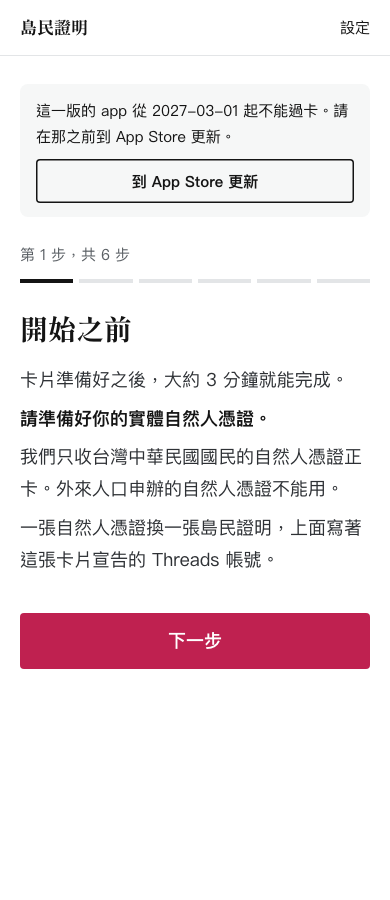
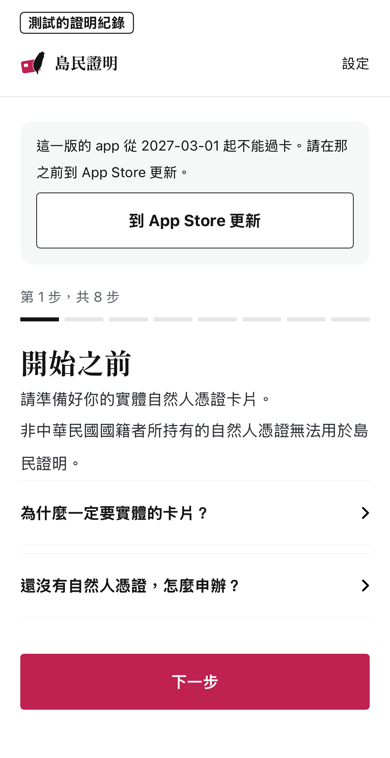
#172 iOS 的中斷和錯誤
三次感應各自的中斷照 #133：卡片離開、沒有感應到、換了卡時 PIN 留在記憶體，
「再感應一次」只重做那一次；送 PIN 時離開而卡片還沒接受過這個 PIN，不自動
重送，丟掉 PIN 回到輸入的畫面；在面板上按取消回到按下之前的畫面。PIN 從欄位
拿走後滿 5 分鐘丟掉，回到第 1 步並說明。最低版本（min_app，核心的
idc_min_app）：起算日之前在第 1 步最上面提醒，當天起換掉第 1 步；讀不懂就
不讀卡。手機不能讀卡時換掉第 1 步。句子都是 card-proof.json 現有的。

Changed region(s): [[0.0308, 0.0, 0.9538, 0.6372], [0.0308, 0.6675, 0.9538, 0.7889], [0.0308, 0.8496, 0.9538, 0.9406]]

diff --git a/ios/Tests/ScreensTests.swift b/ios/Tests/ScreensTests.swift
@@ -424,6 +424,80 @@ final class ScreensTests: XCTestCase {
         XCTAssertEqual(opened, ["https://test.iamreal.tw/faq", "https://test.iamreal.tw/privacy", "https://github.com/iamreal-tw/iamreal"])
     }
 
+    /// A build that has its page in the store.
+    private var inStore: Screens { Screens(copy: copy, appCopy: appCopy, host: "iamreal.tw", storePage: true) }
+
+    /// The lowest version (card-proof.md, step 1, "app"; ADR-0035): before the day, said above step 1 and above
+    /// the reminder's note, with the way to the store; from the day, in the place of step 1, with nothing that
+    /// leads to a card. A build with no page in the store yet says the same without the button.
+    func testTheLowestVersionBeforeTheDayAndFromIt() {
+        let soon = inStore.before(notice: ReminderScreens(appCopy: appCopy).fromNotification(snoozed: nil), updateFrom: "2027-03-01", idle: true)
+        XCTAssertEqual(soon.step, 1)
+        XCTAssertEqual(soon.warnings, [
+            Notice(text: "這一版的 app 從 2027-03-01 起不能過卡。請在那之前到 App Store 更新。", button: Button(label: "到 App Store 更新", action: .openStore)),
+            Notice(text: "超過 5 分鐘沒有完成，為了不讓 PIN 留在手機上太久，已經回到開頭。請再感應一次卡片。", button: nil),
+        ])
+        XCTAssertEqual(Array(soon.texts.prefix(4)), [
+            "這一版的 app 從 2027-03-01 起不能過卡。請在那之前到 App Store 更新。", "到 App Store 更新",
+            "超過 5 分鐘沒有完成，為了不讓 PIN 留在手機上太久，已經回到開頭。請再感應一次卡片。",
+            "這是過卡的提醒。現在不方便的話，可以晚點再做。",
+        ])
+        XCTAssertEqual(soon.buttons.map(\.action), [.start], "a card proof goes on as usual")
+        let stop = inStore.tooOld(from: "2027-03-01")
+        XCTAssertEqual(stop.step, 0, "none of the steps")
+        XCTAssertEqual(stop.texts, [
+            "這一版不能過卡了",
+            "從 2027-03-01 起，這一版的島民證明 app 不能過卡。請更新到最新的版本。",
+            "卡片還沒有被讀取，沒有任何東西送出去。",
+            "到 App Store 更新",
+            "也可以用電腦和讀卡機，在 iamreal.tw 過卡。",
+        ])
+        XCTAssertEqual(stop.buttons, [])
+        XCTAssertNil(stop.cancel)
+        // No page in the store yet: the same sentences, no button.
+        XCTAssertNil(screens.before(updateFrom: "2027-03-01").warnings.first?.button)
+        XCTAssertFalse(screens.tooOld(from: "2027-03-01").texts.contains("到 App Store 更新"))
+        for screen in [inStore.before(updateFrom: "2027-03-01", idle: true), stop, screens.tooOld(from: "2027-03-01")] { document.check(screen) }
+    }
+
+    /// A phone that cannot read a card: in the place of step 1, the other way to a card proof.
+    func testAPhoneWithoutNFC() {
+        let screen = screens.noNFC()
+        XCTAssertEqual(screen.step, 0)
+        XCTAssertEqual(screen.texts, ["這支手機不能感應卡片", "這支手機沒有 NFC，不能用 app 過卡。", "可以用電腦和讀卡機，在 iamreal.tw 過卡。"])
+        XCTAssertEqual(screen.buttons, [])
+        document.check(screen)
+    }
+
+    /// What a tap that ended says, by which of the three it was (card-proof.md, steps 2, 3 and 5, "app"; #133).
+    func testWhatATapThatEndedSaysByWhichTapItWas() {
+        let left = Flow.Stop.card(.dropped(.notSent))
+        XCTAssertEqual(screens.message(left, tap: 1), ["卡片在讀取途中離開了手機。請再感應一次，感應時不要移動卡片。"])
+        XCTAssertEqual(screens.message(left, tap: 2), ["卡片在感應途中離開了手機。PIN 還在，不用再輸入，請再感應一次。"])
+        XCTAssertEqual(screens.message(.card(.dropped(.accepted)), tap: 2), ["卡片在感應途中離開了手機。PIN 還在，不用再輸入，請再感應一次。"])
+        XCTAssertEqual(screens.message(.card(.dropped(.sent)), tap: 2), [copy("app_stops.pin_maybe_received")])
+        for pin in [PINFate.notSent, .sent, .accepted] {
+            XCTAssertEqual(screens.message(.card(.dropped(pin)), tap: 3), ["卡片在感應途中離開了手機。請再感應一次。"])
+        }
+        // The panel closed by the cardholder: said only where the card would have signed the declaration.
+        XCTAssertEqual(screens.message(.card(.cancelled), tap: 1), [])
+        XCTAssertEqual(screens.message(.card(.cancelled), tap: 2), [])
+        XCTAssertEqual(screens.message(.card(.cancelled), tap: 3), ["感應取消了，卡片沒有簽。"])
+        // Step 3 with the PIN kept: the same tap again. Step 5: the same tap again, or out.
+        let kept = screens.pin(name: "王小明", state: .tapAgain(screens.message(left, tap: 2)[0]))
+        XCTAssertEqual(kept.buttons, [Button(label: "再感應一次", action: .confirmCard)])
+        let maybe = screens.pin(name: "王小明", state: .waiting(screens.message(.card(.dropped(.sent)), tap: 2).first))
+        XCTAssertEqual(maybe.buttons.map(\.label), ["上一步", "確認卡片"])
+        for stop in [left, .card(.cancelled), .card(.noTap), .card(.otherCard)] {
+            let progress = screens.progress(reached: 1, stop: stop)
+            XCTAssertEqual(progress.buttons, [Button(label: "再感應一次", action: .signAgain)], "\(stop)")
+            XCTAssertEqual(progress.cancel?.label, "取消")
+            document.check(progress)
+        }
+        document.check(kept)
+        document.check(maybe)
+    }
+
     /// Step 1 opened from the notification: the note on top, as app.md writes it.
     func testStepOneFromTheNotification() {
         let reminderScreens = ReminderScreens(appCopy: appCopy)
@@ -523,6 +597,10 @@ final class ScreensTests: XCTestCase {
         // screen, the settings with the reminder on. Step 7 is among the steps above.
         let reminderScreens: [(String, Screen)] = [
             ("app-reminder-4-from-notification-phone", screens.before(notice: ReminderScreens(appCopy: appCopy).fromNotification(snoozed: nil))),
+            // The lowest version and a phone without NFC, as a build that has its page in the store shows them.
+            ("app-update-soon-phone", inStore.before(updateFrom: "2027-03-01")),
+            ("app-update-required-phone", inStore.tooOld(from: "2027-03-01")),
+            ("app-no-nfc-phone", inStore.noNFC()),
         ]
         for (name, screen) in reminderScreens {
             let drawn = await Self.draw(ScreenView(screen: screen, copy: copy, pinText: .constant(""), perform: { _ in }, type: { _, _ in }, unscrolled: true), height: nil)

diff --git a/ios/Tests/DeviceCoreTests.swift b/ios/Tests/DeviceCoreTests.swift
@@ -28,4 +28,36 @@ final class DeviceCoreTests: XCTestCase {
         }
         XCTAssertEqual(seen, 2)
     }
+
+    /// The lowest app version, as the app reads it through the core
+    /// (MinApp.read, idc_min_app), against the cases of
+    /// spec/vectors/min-app.json for the iOS app: new enough, older before
+    /// the day and from it, and every field that cannot be read.
+    func testTheLowestVersionIsWhatTheVectorsSayForTheIOSApp() throws {
+        let cases = try XCTUnwrap(try Repository.vectors("min-app.json")["cases"] as? [[String: Any]])
+        var verdicts: Set<String> = []
+        for item in cases where item["client"] as? String == "ios" {
+            let name = try XCTUnwrap(item["name"] as? String)
+            let config = try JSONSerialization.data(withJSONObject: try XCTUnwrap(item["config"]), options: [.fragmentsAllowed])
+            let build = try XCTUnwrap(item["app_build"] as? Int)
+            let now = Date(timeIntervalSince1970: TimeInterval(try XCTUnwrap(item["now"] as? Int)))
+            let result = try XCTUnwrap(item["result"] as? String)
+            verdicts.insert(result)
+            let read = MinApp.read(config: config, build: String(build), now: now)
+            switch result {
+            case "ok": XCTAssertEqual(read, .ok, name)
+            case "ok_until": XCTAssertEqual(read, .okUntil(try XCTUnwrap(item["from"] as? String)), name)
+            case "stop":
+                // The day it started on, which the screen writes: the config's own.
+                guard case .stop(let from) = read else { XCTFail("\(name): \(read)"); continue }
+                XCTAssertEqual(from.count, 10, name)
+            case "unreadable": XCTAssertEqual(read, .unreadable, name)
+            default: XCTFail("\(name): a verdict the test does not know, \(result)")
+            }
+        }
+        XCTAssertEqual(verdicts, ["ok", "ok_until", "stop", "unreadable"], "the cases cover every verdict for the iOS app")
+        // A build number that is not one: the app does not go on.
+        XCTAssertEqual(MinApp.read(config: Data("{}".utf8), build: nil, now: Date()), .unreadable)
+        XCTAssertEqual(MinApp.read(config: Data("{}".utf8), build: "1.2", now: Date()), .unreadable)
+    }
 }

diff --git a/ios/App/CardProofModel.swift b/ios/App/CardProofModel.swift
@@ -784,4 +784,21 @@ enum MinApp: Equatable {
         if case .stop = self { return true }
         return false
     }
+
+    /// As the core reads the server's `config` for the build `build` of
+    /// this app (DeviceCore.minApp). A build number that is not one, or an
+    /// answer of the core's the app cannot read, is as a field it cannot
+    /// read: the app does not go on.
+    static func read(config: Data, build: String?, now: Date) -> MinApp {
+        guard let build = build.flatMap(UInt32.init),
+              let answer = try? DeviceCore.minApp(config: config, build: build, now: now),
+              let verdict = try? JSONSerialization.jsonObject(with: answer) as? [String: Any]
+        else { return .unreadable }
+        switch (verdict["verdict"] as? String, verdict["from"] as? String) {
+        case ("ok", _): return .ok
+        case ("ok_until", let from?): return .okUntil(from)
+        case ("stop", let from?): return .stop(from)
+        default: return .unreadable
+        }
+    }
 }

diff --git a/ios/App/DeviceCore.swift b/ios/App/DeviceCore.swift
@@ -85,6 +85,16 @@ enum DeviceCore {
         }
     }
 
+    /// What the lowest app version of the server's `config` says of the
+    /// build `build` of the iOS app on the date of `now` in Taiwan
+    /// (idc_min_app, spec/min-app.md): JSON with a `verdict`, and `from`
+    /// where it has a day. Whatever `config` holds is read, never an error.
+    static func minApp(config: Data, build: UInt32, now: Date) throws -> Data {
+        try config.withUnsafeBytes { c in
+            try output { idc_min_app(c.bytes, c.count, UInt32(IDC_CLIENT_IOS), build, seconds(now), $0) }
+        }
+    }
+
     /// The short ID of a scoped ID: its first 10 characters.
     static func shortID(of scopedID: String) throws -> String {
         let text = Data(scopedID.utf8)

diff --git a/ios/App/IamrealApp.swift b/ios/App/IamrealApp.swift
@@ -105,7 +105,10 @@ extension CardProofModel {
             site: AppEnvironment.site,
             open: { UIApplication.shared.open($0) },
             copyText: { UIPasteboard.general.string = $0 },
-            share: share))
+            share: share,
+            canReadCards: { NFCCard.available },
+            minApp: { config, now in MinApp.read(config: config, build: Bundle.main.object(forInfoDictionaryKey: "CFBundleVersion") as? String, now: now) },
+            storePage: AppEnvironment.storePage))
     }
 
     /// The system's settings at this app's notifications; before iOS 16,

diff --git a/ios/App/NFCCard.swift b/ios/App/NFCCard.swift
@@ -31,8 +31,11 @@ final class NFCCard: Card {
     private let lock = NSLock()
     private var reading = false
 
+    /// Whether this phone can read a card: false on one without NFC.
+    static var available: Bool { NFCTagReaderSession.readingAvailable }
+
     convenience init(copy: Copy) {
-        self.init(copy: copy, available: { NFCTagReaderSession.readingAvailable }, open: { TagReader() })
+        self.init(copy: copy, available: { Self.available }, open: { TagReader() })
     }
 
     /// `available`: whether this phone can read a card now. `open`: a new

diff --git a/ios/README.md b/ios/README.md
@@ -8,6 +8,24 @@
 
 過卡的八步和流程（[#170](https://github.com/iamreal-tw/iamreal/issues/170)），照網頁版 `web/src/flow.ts` 的順序，卡片感應三次（[#133](https://github.com/iamreal-tw/iamreal/issues/133)）。卡片用 iPhone 的 NFC 讀（[#174](https://github.com/iamreal-tw/iamreal/issues/174)）：每一次感應是系統的一個讀卡面板，讀憑證不用 PIN，簽章前先和第二代卡片建立安全通道（`spec/card-channel.md`）才送 PIN。畫面和啟動畫面照 `design/screens/` 的 `card-proof-app-*`、`app-splash-phone.png`（[#296](https://github.com/iamreal-tw/iamreal/issues/296)），讀取卡片那一步有感應位置的示範（`card-proof-app-2-read-iphone-phone.png`，下面「第 2 步有感應位置的示範」）。第 1 到 5 步的字和第 4 步的分流照 `design/copy/card-proof.md`（[#363](https://github.com/iamreal-tw/iamreal/issues/363)）：第 1 步「找附近的戶政事務所」交給 iPhone 的地圖搜尋「戶政事務所」（地圖的連結 `https://maps.apple.com/?q=…`，app 不要位置的權限），另一個連結用瀏覽器開內政部憑證管理中心的網站；第 4 步在卡片沒有宣告時只有填帳號的欄位，已經有宣告時主按鈕是「更新島民證明」，下面是「改成別的帳號」和「收回對 @alice 的宣告」。過卡提醒和設定（[#298](https://github.com/iamreal-tw/iamreal/issues/298)，照 [#93](https://github.com/iamreal-tw/iamreal/issues/93)）照 `design/screens/` 的 `app-reminder-*`、`app-settings-phone.png`：提醒是手機自己排的本機通知。送出之後是三步（[#364](https://github.com/iamreal-tw/iamreal/issues/364)，照 `design/copy/card-proof.md` 第 6 到 8 步），每一步上方寫「共 8 步」：第 6 步把連結掛上個人檔案（再次過卡是只問一句的短版，「沒有看到連結，重新掛上」換成完整的；「複製證明連結」和「打開 Threads」左右並排，放不下一行時（系統字體放大、iOS 15）上下排；第二顆照舊打開這個帳號的個人檔案，VoiceOver 讀完整的「打開 @alice 的 Threads 個人檔案」；下面是會動的示範和四步的字，見下一段）；第 7 步問要不要提醒（系統不允許通知時，「打開通知設定」開到系統裡這個 app 的通知設定，回到 app、或從別的步回到這一步時再問一次系統，允許了就照預設排好）；第 8 步是完成和分享。第 7、8 步可以按「上一步」；全部收回時第 5 步之後直接到第 8 步。
 
+中斷和錯誤（[#172](https://github.com/iamreal-tw/iamreal/issues/172)，照 [#133](https://github.com/iamreal-tw/iamreal/issues/133)、ADR-0035）：
+
+| 情況 | app 做什麼 |
+|---|---|
+| 第 1 次感應卡片離開、沒有感應到 | 寫原因，「再感應一次」只重做那一次 |
+| 在面板上按「取消」（第 1、2 次感應） | 回到按下之前的畫面，不寫原因；第 2 次的 PIN 還在 |
+| 第 2 次感應：卡片在 PIN 送出之前離開、在卡片接受 PIN 之後離開、沒有感應到、換了卡 | PIN 留在記憶體，「再感應一次」只重做那一次，不用再輸入 |
+| 第 2 次感應：卡片在送 PIN 的那一道指令離開，而且還沒有接受過這個 PIN | 不自動重送：丟掉 PIN，回到輸入的畫面，寫明不確定卡片有沒有收到 |
+| PIN 不正確、安全通道建立不起來 | 丟掉 PIN，回到輸入的畫面 |
+| 第 3 次感應：卡片離開（不管 PIN 送出了沒有：第 2 次已經被接受過）、沒有感應到、換了卡、按了「取消」 | PIN 留在記憶體，「再感應一次」只重做那一次；「取消」丟掉 PIN 回到開頭 |
+| PIN 從欄位拿走之後滿 5 分鐘、PIN 還在記憶體裡 | 丟掉 PIN 和做到一半的過卡，回到第 1 步，上面寫原因。感應或請求做到一半時等它結束。切到別的 app 再回來，5 分鐘內 PIN 還在；系統把 app 停在背景時計時不會跑，回到 app 的那一刻補查 |
+| app 被系統結束 | 從第 1 步來（上面「不寫磁碟」） |
+| 這一版比 `config` 的最低版本舊（`min_app`，由核心的 `idc_min_app` 讀，`spec/min-app.md`） | 起算日之前：第 1 步最上面提醒（在過卡提醒的那一段上面），照常過卡。起算日當天起：整個畫面換掉第 1 步，沒有任何通到感應或 PIN 的按鈕；打開 app 時和按「感應卡片」連上伺服器之後各看一次 |
+| `min_app` 讀不懂（包括 app 自己的 build number 不是整數） | 第 2 步停在「連上島民證明的伺服器」，和 `config` 讀不懂相同，不讀卡 |
+| 手機不能讀卡（沒有 NFC） | 整個畫面換掉第 1 步 |
+
+「到 App Store 更新」開的是 `App/AppEnvironment.swift` 的 `storePage`（`https://apps.apple.com/app/id<數字>`）。這個 app 在 App Store Connect 的數字還沒有寫進去，寫進去之前那兩個畫面照樣寫要更新，沒有按鈕。
+
 第 2 步有感應位置的示範（[#376](https://github.com/iamreal-tw/iamreal/issues/376)），取代原本的示意圖和圖說：進到第 2 步就開始，三輪（10.55 秒）後停在卡片貼好的那一格；下面是同一顆按鈕（「停止」「再看一次」）。按了「感應卡片」之後示範停在卡片貼好的那一格、不自己重播（沒有感應到、再感應一次時也是），感應中那顆按鈕不能按；讀完之後不畫。減少動態時照樣播，對 VoiceOver 是一句說明（`app_demo.sense_iphone`）。說明的那一句沒有改。
 
 第 6 步有掛上去的示範（[#375](https://github.com/iamreal-tw/iamreal/issues/375)，[#369](https://github.com/iamreal-tw/iamreal/issues/369)；`design/copy/card-proof.md`「示範」、`design/motion/README.md`）：五個示意畫面由左到右排成一列，鏡頭從按「複製證明連結」一路帶到個人檔案多出來的那一行，20.7 秒，帳號和網址是這張島民證明自己的，回程是按「連結」那一頁右上角的「完成」（iPhone 的做法）。示範大半進到畫面時自己播一次（一次過卡只自己播一次，從第 7 步按「上一步」回來不再自己播）；下面一顆按鈕，播的時候是「停止」（按了直接到最後一格），停了或播完是「再看一次」；播到哪一步，四步的字裡那一步用淺灰底和左邊一條紅線標出來。系統設定減少動態時照樣播，看的人用那顆按鈕停下來（#369 的決定）。對 VoiceOver 整段示範是一句說明，四步的字照常唸。短版的第 6 步沒有示範；卡片在 Threads 上沒有帳號時也沒有。沒有加任何程式庫：示意畫面是 SwiftUI 自己的元件，每一格的時間來自系統的 `TimelineView`。iOS 15 沒有辦法問系統兩顆按鈕並排放不放得下，一律上下排。
@@ -61,9 +79,9 @@
 
 ### 還沒有的
 
-- 讀卡時的中斷，第 2、第 3 次感應的部分（[#172](https://github.com/iamreal-tw/iamreal/issues/172)）：卡片中途離開時，`CardFailure.dropped` 帶著 PIN 送出了沒有（`pinSent`），但畫面現在一律寫「讀卡時發生錯誤（代碼 `connection_lost`）……」、丟掉 PIN、從第 2 步重來；第 1 次感應已經照 `card-proof.md` 寫「卡片在讀取途中離開了手機……」並可以再感應一次。在面板上按「取消」（卡片接上之前，或接上之後、PIN 送出之前）、感應時切到別的 app，現在都當成沒有感應到卡片；PIN 送出之後按「取消」當成卡片中途離開（`pinSent` 是真的）。卡片接上後按「取消」，系統讓指令失敗和告訴 app「取消了」的先後沒有文件，晚到的時候也會當成卡片中途離開
+- 在面板上按「取消」和卡片中途離開，系統告訴 app 的先後沒有文件：卡片接上之後按「取消」，系統讓指令失敗比告訴 app「取消了」早到時，app 會當成卡片中途離開（畫面寫再感應一次），不是取消。要真手機才看得出來
 - 第一代的卡片：`GpkiCard` 認得出來（選不到第二代的應用程式、選得到主檔案），但只有在卡片有 `Config/Info.plist` 那三個應用程式之一時，系統才會把卡片交給 app。第一代的卡片有沒有，手上沒有卡片能試；沒有的話持卡人看到的是面板一直等、最後「沒有感應到卡片」
-- 中斷和錯誤（[#172](https://github.com/iamreal-tw/iamreal/issues/172)）：掉線後只重做那一次感應、送 PIN 時掉線、5 分鐘的上限、最低版本（`min_app`）、沒有 NFC。這裡已經有的只有：PIN 不正確時丟掉 PIN 再問一次、第二或第三次感應換了卡時不送 PIN 並可以再感應一次、手機的日期和題目的日期不同時在第三次感應之前停下、後台沒有回應時同一筆再送一次（網頁版在後台回 429、5xx 時也可以再送，再送被回「題目用過了」時會查現況確認那一筆是不是已經記下，這裡還沒有）
+- 送不出去之後的再送：後台沒有回應時同一筆可以再送一次；網頁版在後台回 429、5xx 時也可以再送，再送被回「題目用過了」時會查現況確認那一筆是不是已經記下，這裡還沒有
 - 文字沒有對應句子的兩種情況，畫面只顯示代碼，和網頁版相同（`web/src/ui/messages.ts`）：核心回了 app 不認得的憑證原因代碼、app 自己把步驟的順序叫錯（`state`）。兩種都是程式的錯，不是持卡人會遇到的情況；要不要有一句話留給 #172
 - 清冊的索引或檔案下載不到時，畫面一律寫「現在拿不到可用的內政部廢止清冊……（代碼 `crl_unavailable`）」，不分是連不上還是 HTTP 的錯誤：`spec/device-checks.md` 把兩種都歸在 `crl_unavailable`，網頁版也一樣
 - `design/copy/card-proof.md` 標了「app 的寫法還沒有定」的句子，先用網頁的那一句：讀卡時的其他錯誤、讀到兩張都通過檢查的憑證、檔案的內容和預期的不同、算不出證明、後台列了而 app 不認得的平台那一列、第 6 步讀不出後台回報每個帳號記成什麼時的那一句；要「再讀一次卡片」的地方，按鈕先用「再感應一次卡片」
@@ -196,10 +214,10 @@ IAMREAL_BB=<bb 的路徑> node --experimental-strip-types test/app-backend.ts fi
 
 測試在模擬器裡跑，直接讀這個程式庫在 Mac 上的檔案（模擬器看得到 Mac 的磁碟），不複製。
 
-- `Tests/DeviceCoreTests.swift`：從 Swift 呼叫核心，對 `spec/vectors/scope.json`（兩份證明紀錄的場合字串）；連結進來的函式庫的版本等於標頭檔的；Barretenberg 有回應
+- `Tests/DeviceCoreTests.swift`：從 Swift 呼叫核心，對 `spec/vectors/scope.json`（兩份證明紀錄的場合字串）和 `spec/vectors/min-app.json` 裡 iOS 的每一案（最低版本的四種結果）；連結進來的函式庫的版本等於標頭檔的；Barretenberg 有回應
 - `Tests/BuildTests.swift`：包進去的 `hang.json`、`sense.json` 和 `design/motion/` 的逐位元組相同；這個 build 是開發用 build（識別碼、網址、場合字串；測試跑在 Debug；Release 的識別碼、名稱、網址由 `check-app.sh` 看）、只給 iPhone、內建的檔案都在而且就是上表的來源、參數檔的雜湊和網頁版下載時核對的相同、「測試的證明紀錄」的標示和 app 的名稱在 `design/copy/`、包進去的 `card-proof.json`、`app.json`、字型和程式庫裡的逐位元組相同；`App/` 的原始碼用到的每一句都在 `design/copy/card-proof.json` 或 `app.json`、`app.json` 的每一句都用到了（主畫面上的名稱和 Android 的通知類別除外）、自己沒有寫任何中文的句子；`App/` 的原始碼不寫磁碟（清冊編號和提醒的四樣除外）
 - `Tests/ReminderTests.swift`：下次提醒的日子（一個月、三個月、六個月、跨月跨年、同一個星期幾、選日期只管這一次、能選的日子、一週後再提醒、每次過卡重排）和手機上存的東西，不靠系統真的發通知（換成記下被叫做什麼的假通知）；關掉提醒後，偏好設定裡沒有留下任何一樣；系統不允許通知時什麼都不存
-- `Tests/CardProofTests.swift`：用假卡片過卡（上面那一節）
+- `Tests/CardProofTests.swift`：用假卡片過卡（上面那一節）；中斷和錯誤的每一種（上面那張表）：三次感應各自的卡片離開、沒有感應到、按了取消，送 PIN 時離開不自動重送，5 分鐘前後、過了 5 分鐘按下確認也不簽、最後一次感應之後不受影響，最低版本的四種結果、沒有 NFC
 - `Tests/CardChannelTests.swift`：安全通道對 `spec/vectors/card-channel.json` 的每一案：靜態金鑰、卡片識別碼、金鑰資訊、卡片的挑戰、安全通道的金鑰和 EXTERNAL AUTHENTICATE、一連串指令的加密、MAC 和計數器（沒有資料的指令也加一）、PIN 的區塊、要簽的區塊
 - `Tests/NFCCardTests.swift`：`NFCCard` 怎麼收起系統的面板，面板換成記下被叫做什麼的假面板、卡片是模擬的第二代卡片：讀到、簽好時不帶錯誤訊息，面板寫可以拿開卡片；卡片接上之後每一種停下來的原因（PIN 不正確、鎖卡、安全通道、第一代、不是同一張、中途離開、其他錯誤）和 Core NFC 回報的中斷，都帶「沒有完成，請看 app 畫面上的說明。」收一次，面板上的每一句從 `card-proof.json` 讀，那一句在 `card-proof.md` 裡；在面板上按「取消」（PIN 送出之前或之後）、等不到卡片、手機不能讀卡時 app 不再收面板
 - `Tests/GpkiCardTests.swift`：`GpkiCard` 對一張模擬的第二代卡片（`Tests/SimulatedGpkiCard.swift`：照卡片的做法解密、檢查 MAC 和它自己的計數器，有 PIN 的錯誤次數和簽章的金鑰）：讀憑證不用 PIN、不建安全通道；簽章用簽章的那一把；PIN 錯兩次是 PIN 不正確、第三次鎖卡；卡片收不了的 PIN 不送；卡片的驗證碼不對、金鑰不是 16 個位元組時不送 PIN；第一代的卡片什麼都不讀、不送 PIN；卡片中途離開時知道 PIN 送出了沒有

diff --git a/design/screens/README.md b/design/screens/README.md
@@ -103,6 +103,6 @@ Android 的實作版由模擬器上的過卡測試（`android/test/card-proof.ts
 | `app-reminder-4-from-notification-phone.png` | 從通知點進來的第 1 步 | 實作版（iOS） |
 | `app-settings-phone.png` | 設定，提醒開著 | 實作版（iOS） |
 | `app-splash-phone.png` | 啟動畫面（Android 的實作版由模擬器上的過卡測試拍，同上） | 實作版（Android） |
-| `app-update-soon-phone.png` | 這一版快不能過卡了 | 定稿版 |
-| `app-update-required-phone.png` | 這一版不能過卡了 | 定稿版 |
-| `app-no-nfc-phone.png` | 這支手機沒有 NFC | 定稿版 |
+| `app-update-soon-phone.png` | 這一版快不能過卡了 | 實作版（iOS） |
+| `app-update-required-phone.png` | 這一版不能過卡了 | 實作版（iOS） |
+| `app-no-nfc-phone.png` | 這支手機沒有 NFC | 實作版（iOS） |
